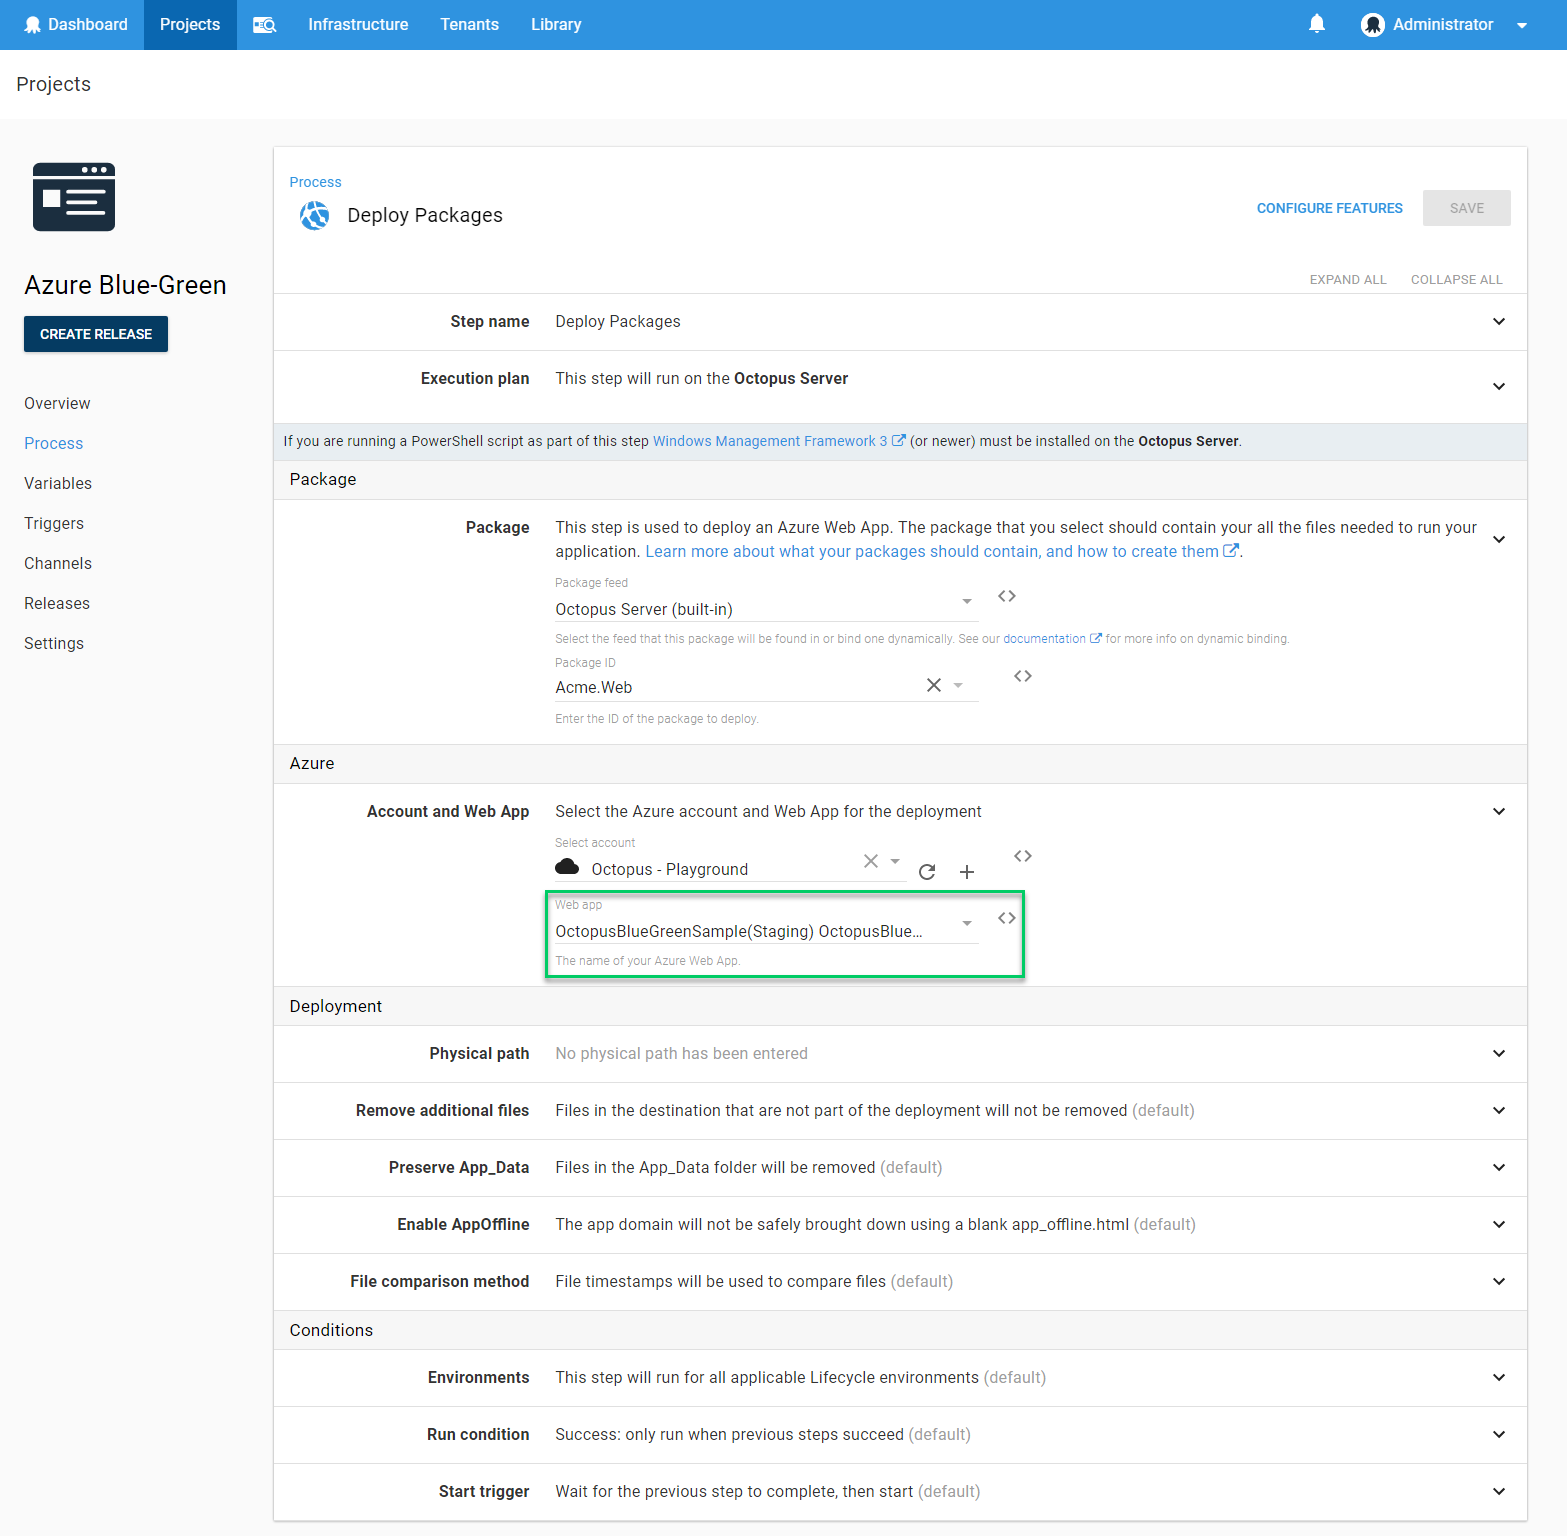
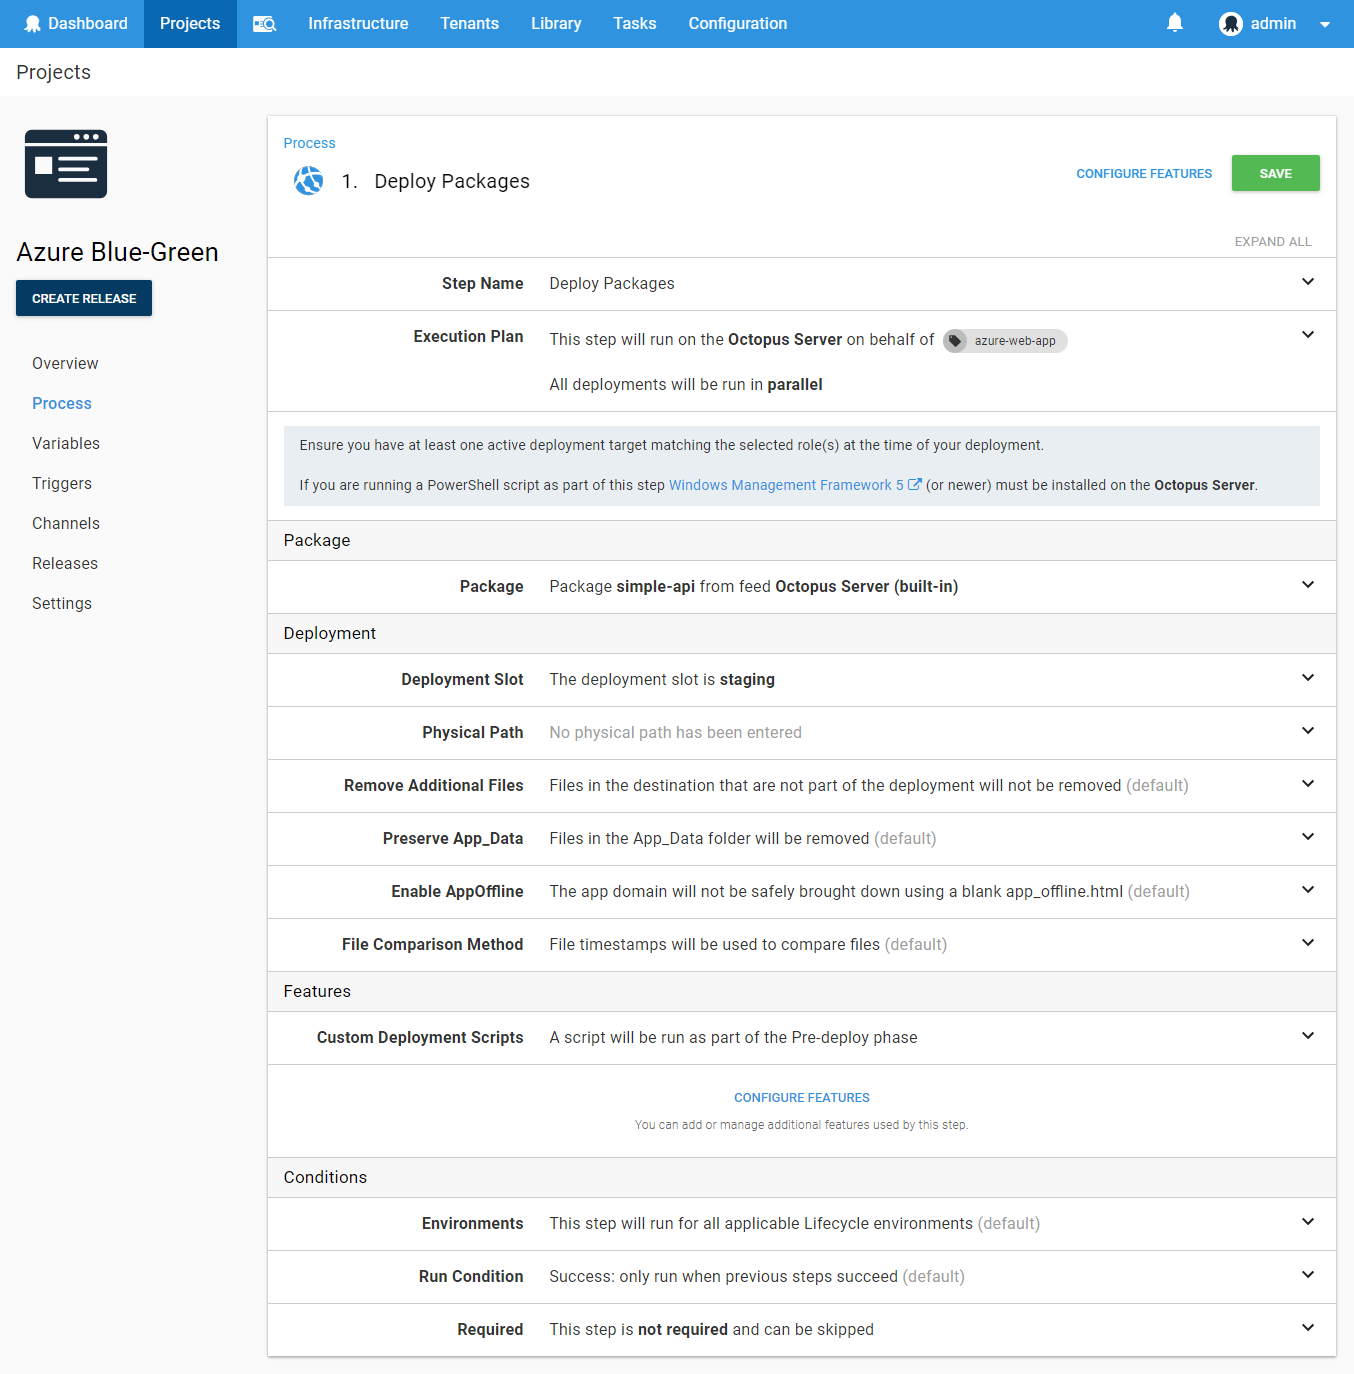
Updates for Azure Web App slot support Updates for Azure Targets that were missed earlier

diff --git a/docs/deployment-examples/azure-deployments/varying-azure-subscription-by-environment.md b/docs/deployment-examples/azure-deployments/varying-azure-subscription-by-environment.md
@@ -17,20 +17,8 @@ You may want to use a different Azure subscription depending on which environmen
 
    ![variable](varying-variable.png "width=500")
 
-3. If you are deploying an **Azure Web App**, create another variable that holds the name of your App. 
+3. If you are deploying an **Azure Web App**, you will need to create an [Azure Web App Target](/docs/deployment-examples/azure-deployments/deploying-a-package-to-an-azure-web-app/index.md) for each environment.
 
-   ![Scoped variables](varying-variables-wa.png "width=500")
+   If you are deploying an **Azure Cloud Service**, you will need to create an [Azure Cloud Service Target](/docs/infrastructure/azure/cloud-service-targets/index.md) for each environment.
 
-   If you are deploying an **Azure Cloud Service,** create 2 more variables for the **Service** and **Storage Account** names
-
-   ![](varying-variables-cs.png "width=500")
-
-4. If you are deploying an **Azure Web App** - On your [Azure Web App step](/docs/deployment-examples/azure-deployments/deploying-a-package-to-an-azure-web-app/index.md) use the variables to set the **Account** and **WebApp**
-
-   ![Web app bindings](varying-bindings-wa.png "width=500")
-
-   If you are deploying an **Azure Cloud Service** - On your [Azure Cloud Service step](/docs/deployment-examples/azure-deployments/deploying-a-package-to-an-azure-cloud-service/index.md) use the variables to set the **Account**, **Cloud Service** and **Storage Account**
-
-   ![Cloud service bindings](varying-bindings-cs.png "width=500")
-
-5. Once you start the deployment, Octopus will resolve the variables that hold the Account and WebApp/Cloud Service info based on their scope. To use a different account, repeat steps 1-3 and scope the new account variable accordingly.
+4. Once you start the deployment, Octopus will resolve the variables that hold the Account and WebApp/Cloud Service info based on their scope. To use a different account, repeat steps 1-3 and scope the new account variable accordingly.

diff --git a/docs/deployment-examples/azure-deployments/deploying-a-package-to-an-azure-web-app/using-deployment-slots-with-azure-web-apps.md b/docs/deployment-examples/azure-deployments/deploying-a-package-to-an-azure-web-app/using-deployment-slots-with-azure-web-apps.md
@@ -19,6 +19,10 @@ Deployment Slots are only available to Azure Web Apps running in Standard or P
 
 Here we will give an example of how to setup a Blue-Green deployment for an Azure Web App using Deployment Slots.
 
+### Step 1: Create an Azure Web App deployment target
+
+Follow the steps for [Azure Web App targets](/docs/infrastructure/azure/web-app-targets/index.md).
+
 ### Step 1: Create Staging Slot {#UsingDeploymentSlotswithAzureWebApps-Step1:CreateStagingSlot}
 
 Create a [Run an Azure PowerShell Script](/docs/deployment-examples/azure-deployments/running-azure-powershell/index.md) step.
@@ -61,27 +65,21 @@ The next step is to deploy your package to the Staging slot.  We do this by cre
 
 ![](deploy-azure-web-app-step.png "width=500")
 
-:::hint
-Slots in Azure are themselves real Web Apps with their own hostnames.  They are named with the format:
-
-```
-WebsiteName(SlotName) 
-```
-:::
-
-If your Staging Slot already exists, you can see it in the select-list of available sites for your account.
-
 ![](azure-web-app-selector-with-slot.png "width=500")
 
-To use a variable for the WebSite name, click the "Bind" ![Bind](bind.png "width=10 Bind") button, and enter
+You can enter the name of deployment slot in the **Deployment Slot** field, or to use a variable for the Slot name, click the "Bind" ![Bind](bind.png "width=10 Bind") button, and enter
 
 ```
-#{WebsiteName}(Staging)
+#{WebAppSlotName}
 ```
 
 As shown below:
 
-![](azure-web-app-selector-with-name-binding.png "width=500")
+![](azure-web-app-slot-binding.png "width=500")
+
+:::info
+You can choose to specify the slot directly on the deployment target, or directly on the step (if you wish to deploy to multiple different slots on the same Web App Service, for example), however, the slot on the target will take priority. 
+:::
 
 ### Step 3: Swap the Staging and Production Slots {#UsingDeploymentSlotswithAzureWebApps-Step3:SwaptheStagingandProductionSlots}
 

diff --git a/docs/deployment-examples/azure-deployments/index.md b/docs/deployment-examples/azure-deployments/index.md
@@ -8,7 +8,7 @@ Octopus Deploy can help you perform repeatable and controlled deployments of you
 
 Out of the box, Octopus provides built-in steps to deploy to the following Azure products:
 
-- [Azure Web applications](/docs/deployment-examples/azure-deployments/deploying-a-package-to-an-azure-web-app/index.md) and [web jobs](also works for [Azure Functions](https://octopus.com/blog/azure-functions))
+- [Azure Web applications](/docs/deployment-examples/azure-deployments/deploying-a-package-to-an-azure-web-app/index.md) and [web jobs](/docs/deployment-examples/azure-deployments/deploying-a-package-to-an-azure-web-app/deploying-web-jobs.md) (also works for [Azure Functions](https://octopus.com/blog/azure-functions))
 - [Resource Group Templates](/docs/deployment-examples/azure-deployments/resource-groups/index.md).
 - [Azure Cloud Services](/docs/deployment-examples/azure-deployments/cloud-services/index.md).
 - [Service Fabric](/docs/deployment-examples/azure-deployments/deploying-to-service-fabric/index.md).
@@ -17,5 +17,5 @@ Out of the box, Octopus provides built-in steps to deploy to the following Azure
 
 :::hint
 **Where do Azure Steps execute?**
-All Azure Steps are executed on the `Octopus Server` instead of being ran on `Tentacles` . If you would like the ability to delegate Azure deployments to a Tentacle, there is a [UserVoice suggestion where you can vote and have your say on this kind of feature](https://octopusdeploy.uservoice.com/forums/170787-general/suggestions/6316906-support-run-on-any-tentacle-model-for-deployment).
+All Azure Steps are executed on the `Octopus Server` instead of being ran on `Tentacles`. If you would like the ability to delegate Azure deployments to a Tentacle, there is a [UserVoice suggestion where you can vote and have your say on this kind of feature](https://octopusdeploy.uservoice.com/forums/170787-general/suggestions/6316906-support-run-on-any-tentacle-model-for-deployment).
 :::

diff --git a/docs/infrastructure/azure/web-app-targets/index.md b/docs/infrastructure/azure/web-app-targets/index.md
@@ -27,10 +27,18 @@ To create an Azure Web App target within Octopus:
 
 ![](create-azure-web-app-target.png "width=500")
 
+:::info
+If you using a **Standard** or **Premium** Azure Service Plan, you can also select a specific slot as your target.
+The _Azure Web App Slot_ field will allow you to select one of the slots available on the Web App. If there are no slots, this will be empty.
+
+You can also leave the slot selection blank and specify the slot, by name, on the step too. The slot selected on the deployment target will take precedence over a slot defined on the step.
+:::
+
 - After clicking _Save_, your deployment target will be added and go through a health check to ensure Octopus can connect to it.
 - If all goes well, you should see your newly created target in your `Deployment Targets` list, with a status of _Healthy_
 
 ![](deployment-targets-web-app-healthy.png "width=500")
+
 
 ### Creating Web App Targets by scripts
 

diff --git a/docs/deployment-examples/azure-deployments/deploying-a-package-to-an-azure-web-app/index.md b/docs/deployment-examples/azure-deployments/deploying-a-package-to-an-azure-web-app/index.md
@@ -29,6 +29,7 @@ See the [packaging application docs](/docs/packaging-applications/index.md)
 
 | Setting                     | Default     | Description                              |
 | --------------------------- | ----------- | ---------------------------------------- |
+| **Deployment Slot**         |             | The target slot to deploy the application to. Requires a **Standard** or **Premium** App Service Plan. |
 | **Physical Path**           |             | The physical path relative to site root on the web app host. e.g. 'foo' will deploy to 'site\wwwroot\foo'. Leave blank to deploy to root. |
 | **Remove additional files** | *False*     | When *True* instructs Web Deploy to delete files from the destination that aren't in the source package |
 | **Preserve App\_Data**      | *False*     | When *True* instructs Web Deploy to skip Delete operations in the **App\_Data** directory |

diff --git a/docs/deployment-process/variables/system-variables.md b/docs/deployment-process/variables/system-variables.md
@@ -137,6 +137,7 @@ Action-level variables are available during execution of an action. Indexer noti
 | Name and Description | Example |
 | -------------------- | ------------------------|
 |**`Octopus.Action.Azure.WebAppName`** <br/>The name of the Web App being targeted by this deployment | *my-web-app*|
+|**`Octopus.Action.Azure.WebAppSlotName`** <br/>The name of the Web App slot being targeted by this deployment | *staging* |
 |**`Octopus.Action.Azure.WebSpaceName`** <br/>The name of the Web Space being targeted by this deployment | *SoutheastAsiaWebSpace1*|
 |**`Octopus.Action.Azure.RemoveAdditionalFiles`** <br/>When *True* instructs Web Deploy to delete files from the destination that aren't in the source package | *True*|
 |**`Octopus.Action.Azure.PreserveAppData`** <br/>When *True* instructs Web Deploy to skip Delete operations in the **App\_Data** directory | *True*|

diff --git a/docs/infrastructure/dynamic-infrastructure/azure-web-app-target.md b/docs/infrastructure/dynamic-infrastructure/azure-web-app-target.md
@@ -11,6 +11,7 @@ Command: **_New-OctopusAzureWebAppTarget_**
 | ------------------------- | --------------------------------------------- |
 | `-name`                   | name for the Octopus deployment target        |
 | `-azureWebApp`            | Name of the Azure Web App                     |
+| `-azureWebAppSlot`        | Name of the Azure Web App Slot                |
 | `-azureResourceGroupName` | Name of the Azure Resource Group              |
 | `-octopusAccountIdOrName` | Name or Id of the Account Resource in Octopus |
 | `-octopusRoles`           | Comma separated list of Roles to assign       |
